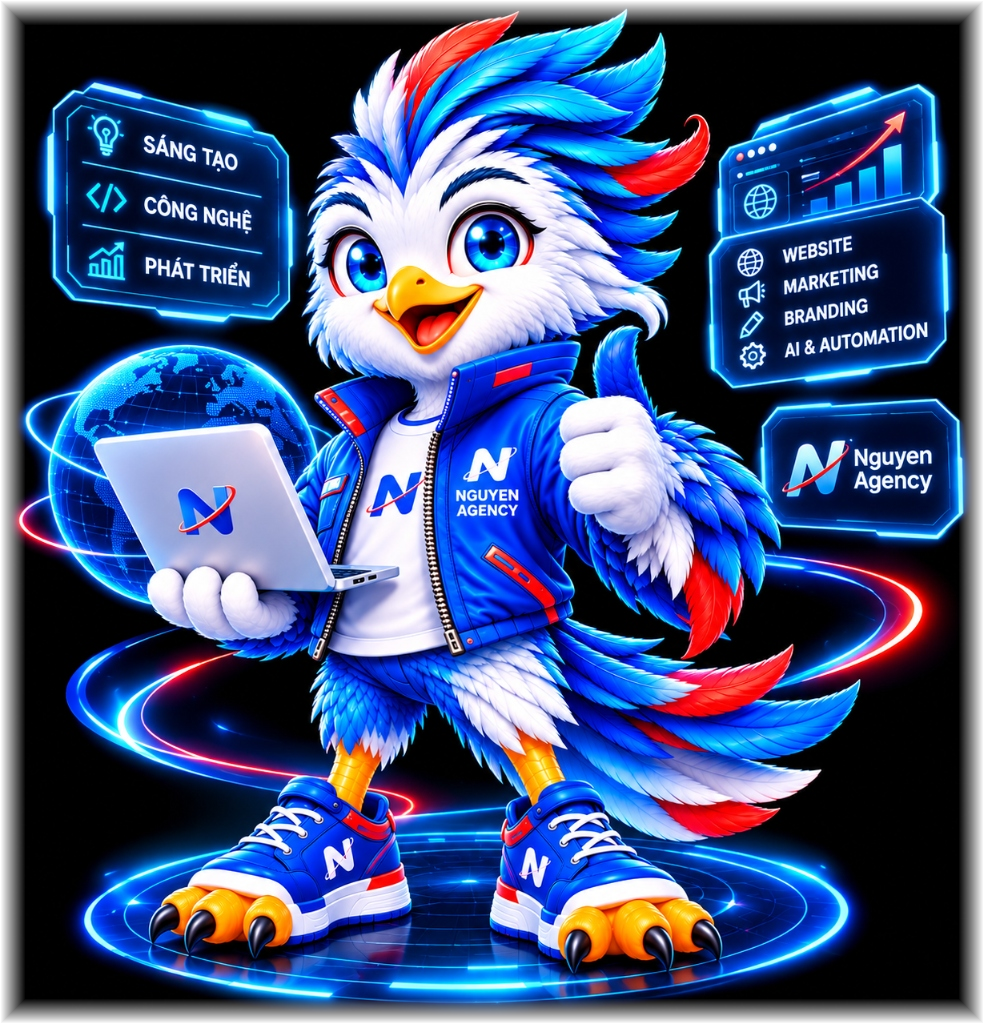
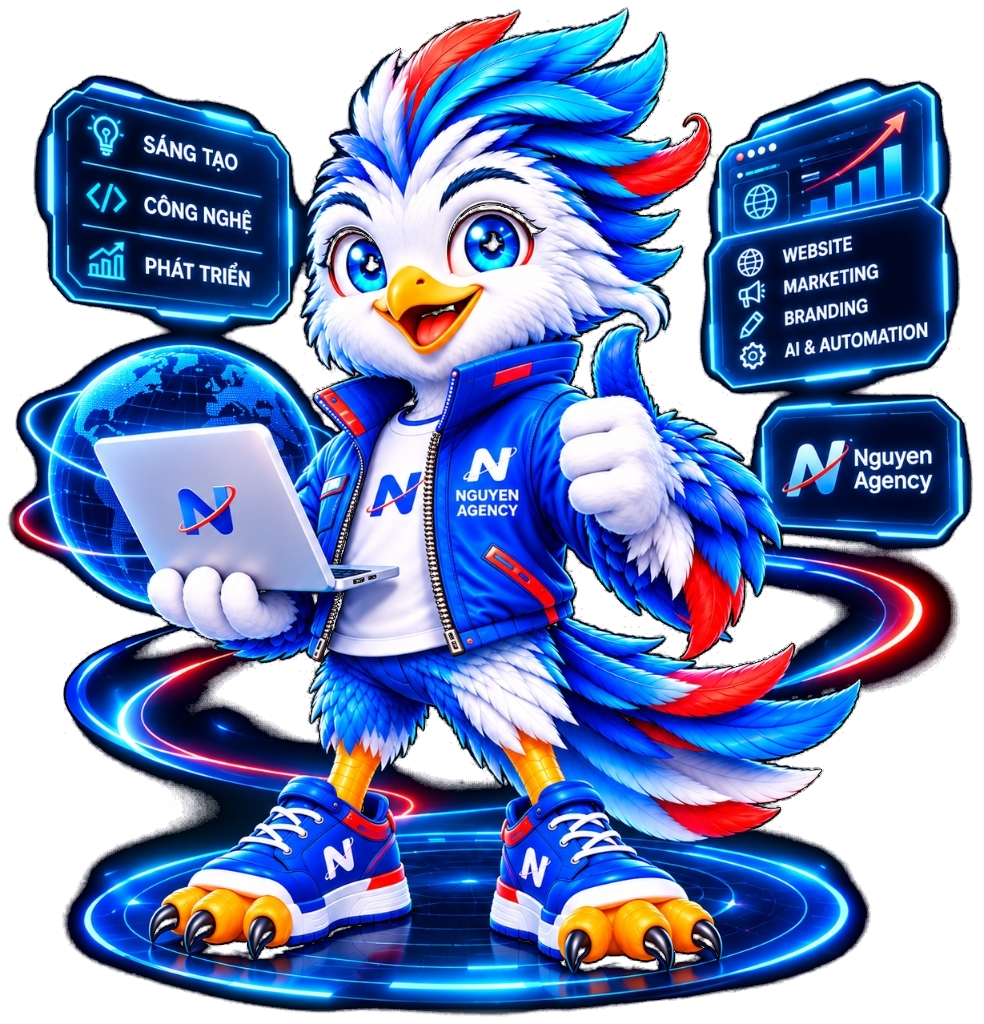
fix: Remove black background behind Mascot with transparent PNG and screen blend mode

diff --git a/src/components/home/HeroSection.tsx b/src/components/home/HeroSection.tsx
@@ -247,15 +247,16 @@ export default function HeroSection({ sectionData }: { sectionData?: any }) {
               {/* Backlight Neon Halos */}
               <div className="absolute inset-0 bg-gradient-to-tr from-[#00E5FF]/20 via-[#007BA7]/15 to-[#FF2D95]/20 rounded-full blur-[90px] pointer-events-none animate-mascot-aura" />
 
-              {/* Full High-res Mascot with Holographic HUD Panels & Laser Pedestal */}
+              {/* Full High-res Mascot with Holographic HUD Panels & Laser Pedestal - NO BLACK BACKGROUND */}
               <div className="relative z-10 w-full h-full animate-mascot-float flex items-center justify-center">
                 <Image
-                  src="/images/mascot-character-full.png"
+                  src="/images/mascot-character-transparent.png"
                   alt="NGUYÊN AGENCY AI Mascot & Hologram Solutions"
                   width={984}
                   height={1024}
                   priority
                   className="w-full h-auto object-contain drop-shadow-[0_20px_60px_rgba(0,163,255,0.45)]"
+                  style={{ mixBlendMode: "screen" }}
                 />
               </div>
             </div>
